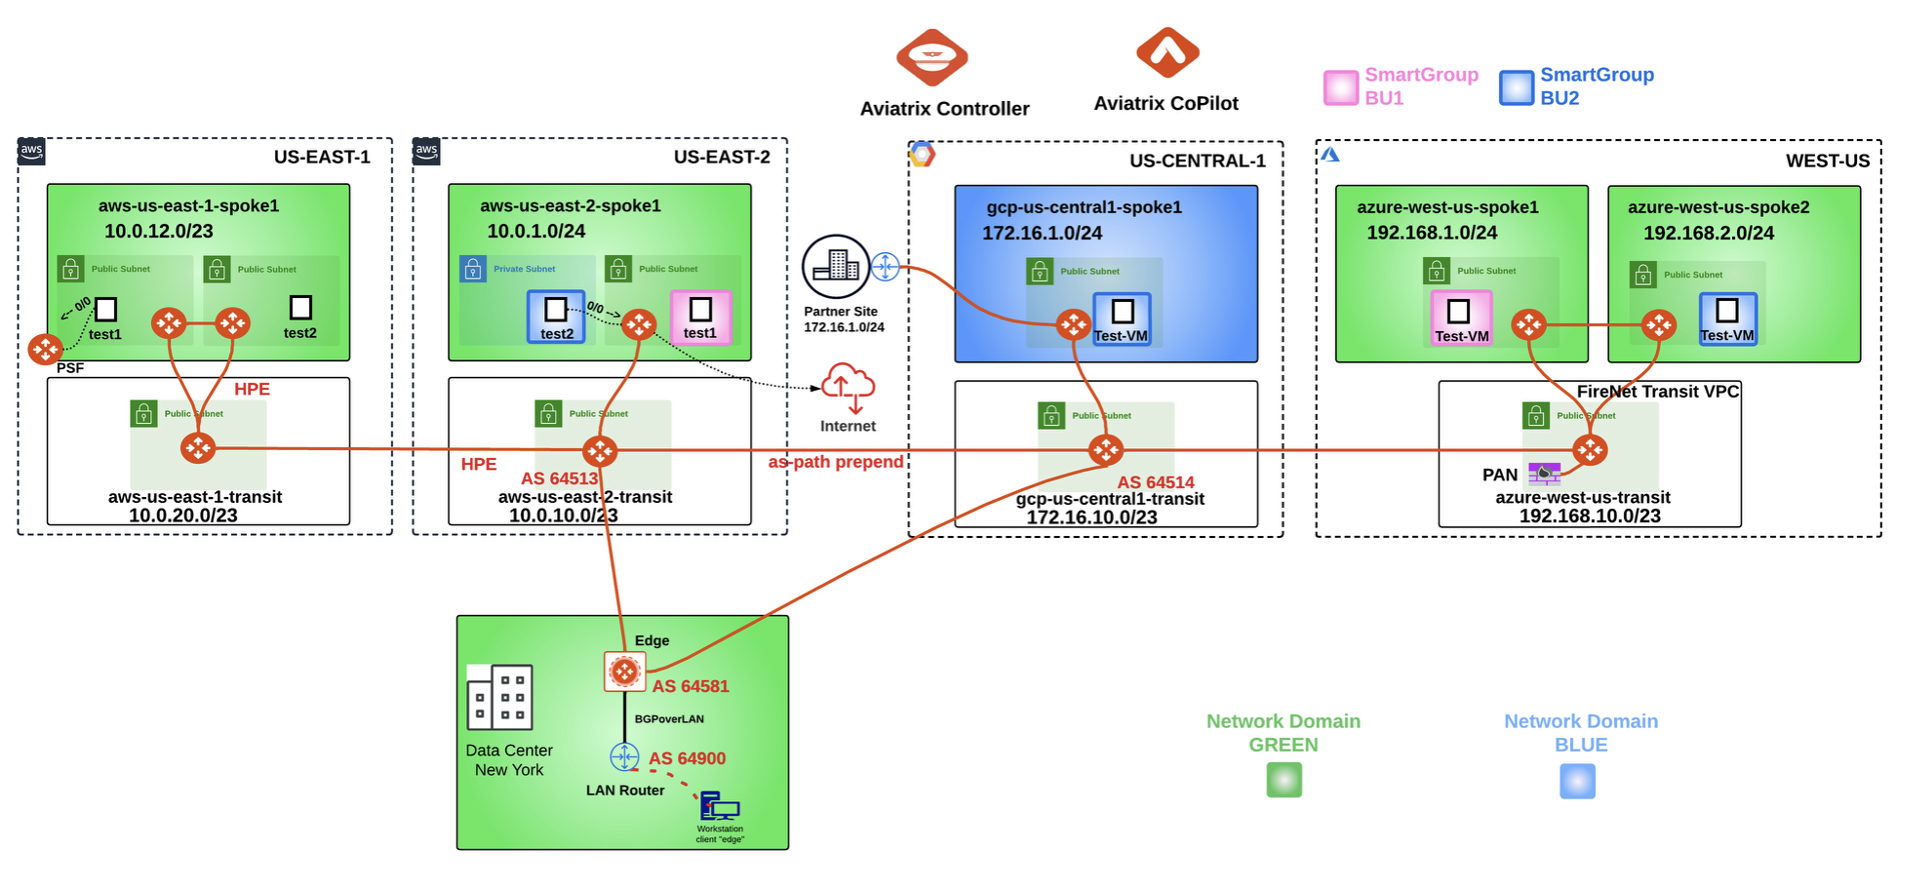
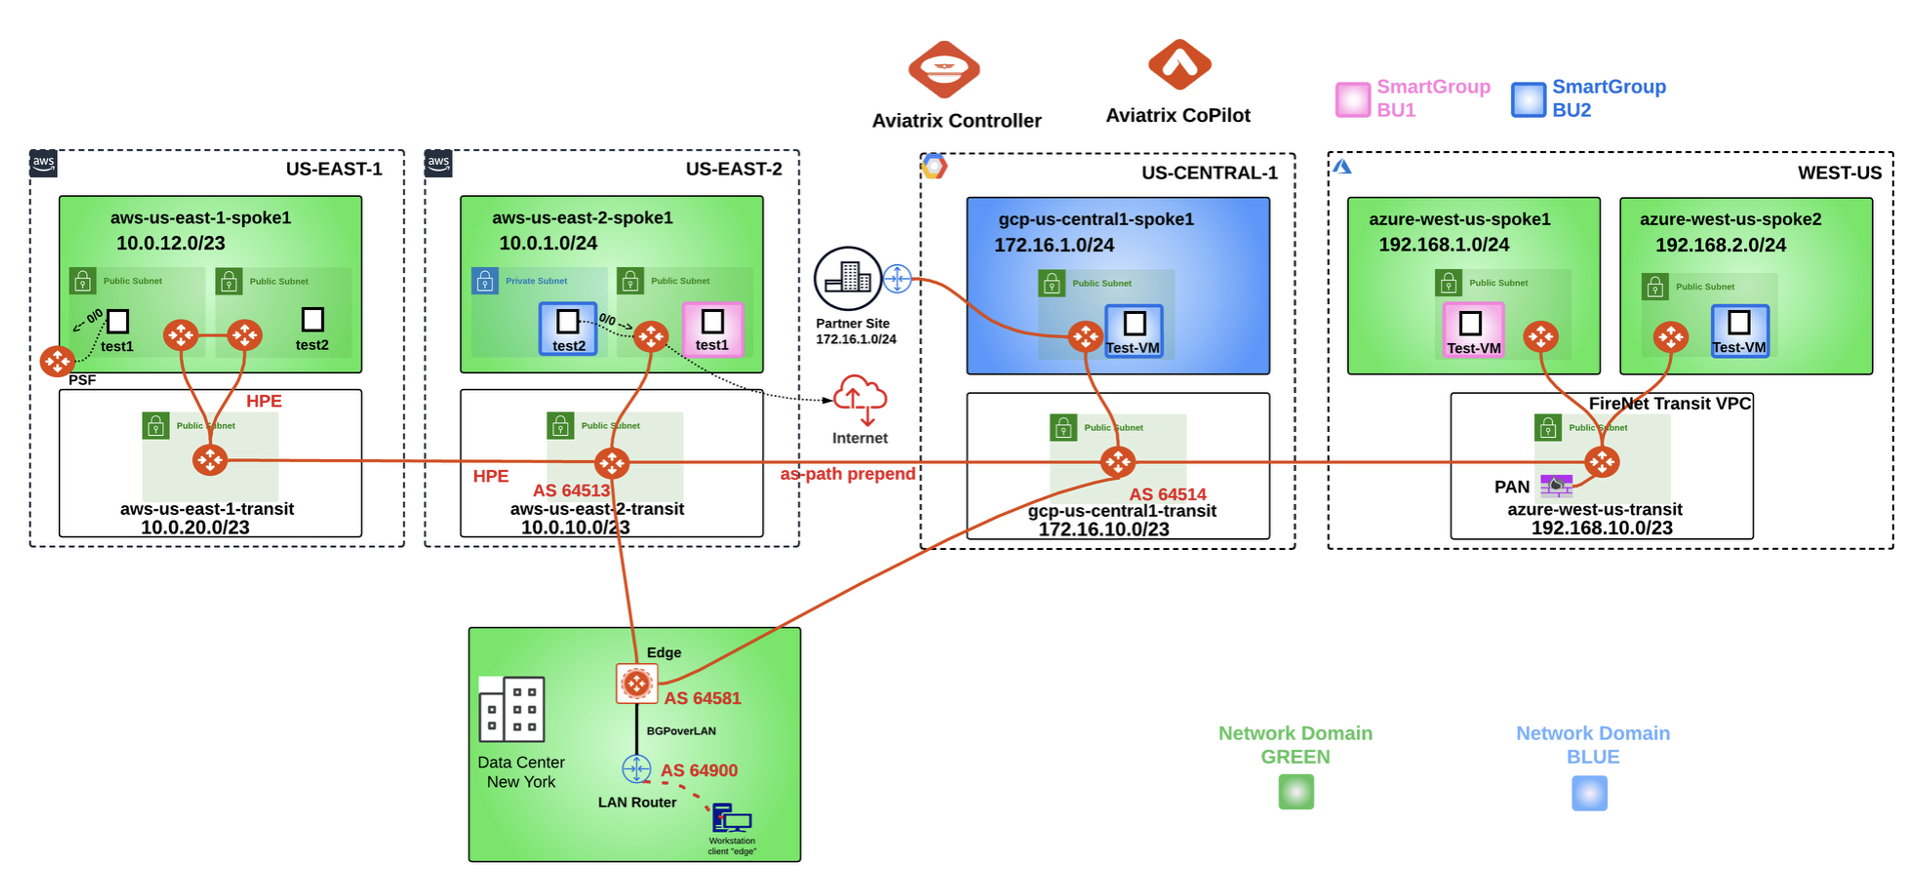
UPDATE FOR PRO

diff --git a/ace_pro/docs/lab11.md b/ace_pro/docs/lab11.md
@@ -215,7 +215,7 @@ Open a terminal window and SSH into the public IP of the instance **aws-us-east-
 Refer to your POD for the private IPs.
 ```
 
-```{figure} images/lab10-newone.png
+```{figure} images/lab10-newone1.png
 ---
 height: 400px
 align: center
